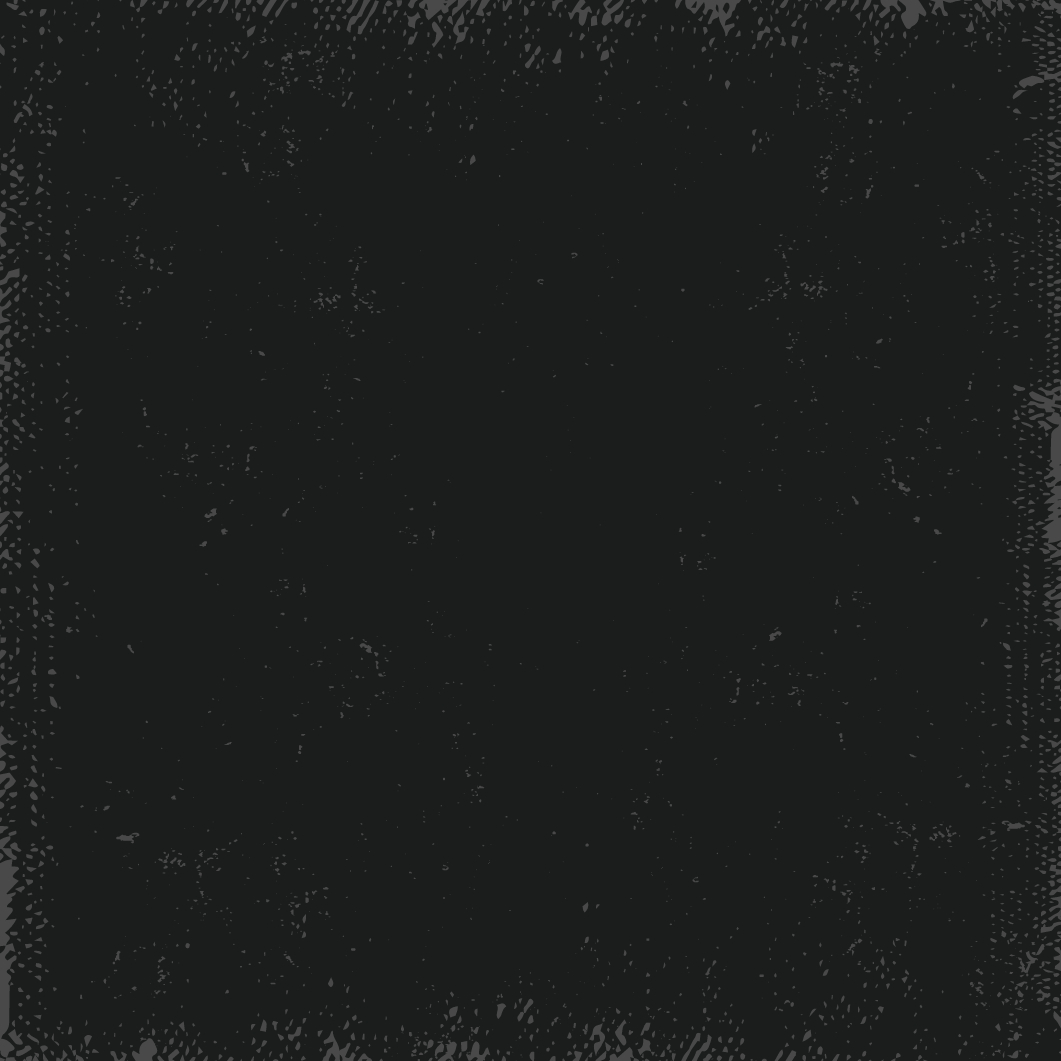
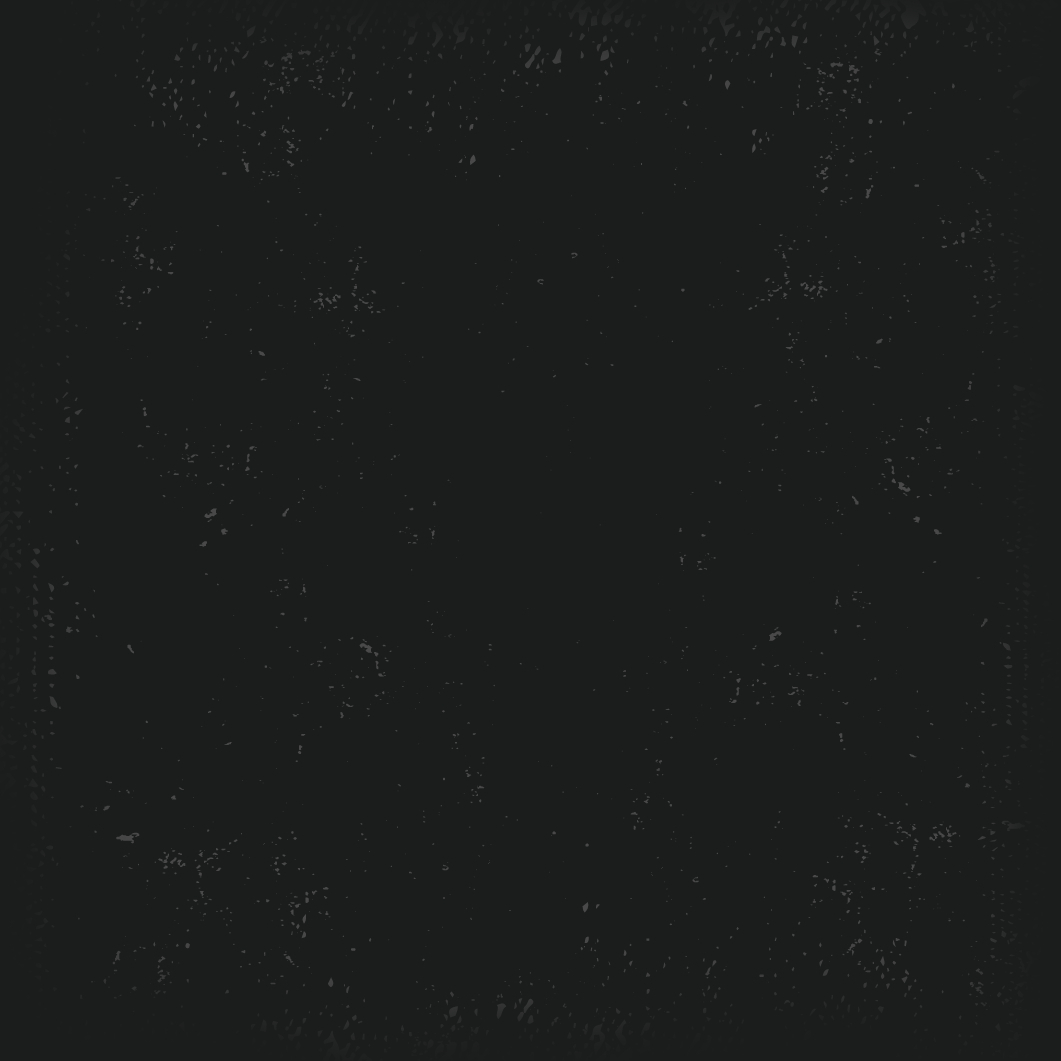
modified backgrounds

diff --git a/src/styles/index.css b/src/styles/index.css
@@ -17,7 +17,9 @@ svg {
 }
 
 body {
-  @apply text-gray-300 bg-back;
+  @apply text-gray-300;
+  background: url(../../assets/back.jpg);
+  background-attachment: fixed;
 }
 
 img {
@@ -40,7 +42,10 @@ a:hover {
 
 @layer components {
   .nav-btn {
-    @apply whitespace-nowrap flex gap-3 items-center bg-gray-800 bg-opacity-70 hover:text-white hover:bg-opacity-80 rounded-md px-6 py-3 text-base;
+    @apply whitespace-nowrap flex gap-3 items-center bg-back-darker hover:text-white bg-opacity-95 hover:bg-opacity-80 rounded-md px-6 py-3 text-base;
+  }
+  .nav-btn-burger {
+    @apply whitespace-nowrap flex gap-3 items-center bg-back hover:text-white bg-opacity-95 hover:bg-opacity-80 rounded-md px-6 py-3 text-base;
   }
   .hero-btn {
     @apply flex gap-3 items-center bg-gray-200 text-gray-800 hover:bg-gray-300 rounded-md px-4 py-2 text-lg;
@@ -49,10 +54,10 @@ a:hover {
     @apply absolute left-1/2 sm:left-[initial] sm:right-0 sm:transform-none transform -translate-x-1/2 md:hidden;
   }
   .vertical-nav-inner {
-    @apply bg-back-secondary bg-opacity-90 rounded-md;
+    @apply bg-back-darker bg-opacity-95 rounded-md;
   }
   .vertical-nav-inner:after {
-    @apply absolute z-20 left-1/2 transform -translate-x-1/2 -top-3 border-r-transparent border-t-transparent border-l-transparent border-back-secondary border-[6px] border-solid block w-0 h-0;
+    @apply absolute z-20 left-1/2 transform -translate-x-1/2 -top-4 border-r-transparent border-t-transparent border-l-transparent border-back-darker border-[8px] border-solid block w-0 h-0;
     content: " ";
   }
   .items {
@@ -71,7 +76,7 @@ a:hover {
     @apply text-2xl md:text-3xl font-black mb-4 text-primary;
   }
   .footer {
-    @apply bg-gray-900 bg-opacity-30 rounded-md p-10 text-center flex flex-col gap-4 items-center justify-center sm:flex-row sm:justify-between;
+    @apply bg-back-darker bg-opacity-30 rounded-md p-10 text-center flex flex-col gap-4 items-center justify-center sm:flex-row sm:justify-between;
   }
   .app-wrapper {
     @apply relative h-full flex flex-col;

diff --git a/src/components/Menu.tsx b/src/components/Menu.tsx
@@ -65,22 +65,28 @@ const Menu = ({
       }
     : {};
 
+  const btnCn = isBurgerMenu ? "nav-btn-burger" : "nav-btn";
+
   return (
-    <div ref={menuRef} className={`vertical-nav-inner ${!isBurgerMenu && 'bg-transparent'}`} style={{ ...menuStyles }}>
+    <div
+      ref={menuRef}
+      className={`vertical-nav-inner ${!isBurgerMenu && "bg-transparent"}`}
+      style={{ ...menuStyles }}
+    >
       <div className="flex gap-2 flex-col md:flex-row md:items-start">
-        <button onClick={() => handleScroll("about")} className="nav-btn">
+        <button onClick={() => handleScroll("about")} className={btnCn}>
           {t("nav.menu_1")}
         </button>
-        <button onClick={() => handleScroll("motopark")} className="nav-btn">
+        <button onClick={() => handleScroll("motopark")} className={btnCn}>
           {t("nav.menu_2")}
         </button>
-        <button onClick={() => handleScroll("terms")} className="nav-btn">
+        <button onClick={() => handleScroll("terms")} className={btnCn}>
           {(t("nav.menu_3") as string).split(" ")[0]}
         </button>
-        <button onClick={() => handleScroll("contact")} className="nav-btn">
+        <button onClick={() => handleScroll("contact")} className={btnCn}>
           {t("nav.menu_4")}
         </button>
-        <LanguageSwitcher />
+        <LanguageSwitcher btnCn={btnCn} />
       </div>
     </div>
   );

diff --git a/src/components/LanguageSwitcher.tsx b/src/components/LanguageSwitcher.tsx
@@ -13,26 +13,18 @@ const langs: { label: string; code: Lang }[] = [
   },
 ];
 
-const LanguageSwitcher = () => {
+const LanguageSwitcher = ({ btnCn }: { btnCn: string }) => {
   const { setLang, lang } = useStore();
 
   return (
-
-      <>
-        {langs.map(({ code, label }) => (
-          <button
-            key={code}
-            onClick={() => setLang(code)}
-            className={`nav-btn bg-opacity-100 ${
-              code === lang ? "opacity-100" : "opacity-70"
-            }`}
-          >
-            <img className="w-5" src={`/assets/${code}.svg`} />
-            {label}
-          </button>
-        ))}
-      </>
-
+    <>
+      {langs.map(({ code, label }) => (
+        <button key={code} onClick={() => setLang(code)} className={btnCn}>
+          <img className="w-5" src={`/assets/${code}.svg`} />
+          {label}
+        </button>
+      ))}
+    </>
   );
 };
 

diff --git a/src/components/Header.tsx b/src/components/Header.tsx
@@ -33,10 +33,13 @@ const Header = () => {
   return (
     <header
       ref={headerRef}
-      className={`${headerCn} top-0 w-full bg-back-secondary bg-opacity-90 z-50`}
+      className={`${headerCn} top-0 w-full shadow-lg z-50 border-b-2 border-back-darker`}
+      style={{
+        background: "url(../assets/back.jpg)",
+      }}
     >
       <div className="max-w-screen-xl px-8 mx-auto">
-        <div className="flex flex-col gap-4 flex-wrap items-center py-8 relative sm:flex-row sm:justify-between">
+        <div className="flex flex-col gap-6 flex-wrap items-center py-8 relative lg:flex-row lg:justify-between">
           <h2 className="text-3xl text-primary">
             <Link to="/">
               <img className="w-28" src="/assets/logo.png" alt="BlackMoto.GE" />

diff --git a/tailwind.config.js b/tailwind.config.js
@@ -4,10 +4,11 @@ export default {
   theme: {
     extend: {
       colors: {
-        back: "#222322",
-        "back-secondary": "#050605",
+        back: "#1b1d1c",
+        "back-darker": "#080908",
         primary: "#c24e4a",
         "primary-light": "#c24e4a",
+        "primary-darker": "#241110",
       },
     },
   },

diff --git a/src/components/AppWrapper.tsx b/src/components/AppWrapper.tsx
@@ -51,7 +51,7 @@ const AppWrapper = () => {
   return (
     <div className={`app-wrapper ${font}`}>
       <Header />
-      <img className="app-bg" alt="" src="/assets/back.jpg" />
+      {/* <img className="app-bg" alt="" src="/assets/back.jpg" /> */}
       <div className="mt-8 container">
         <Outlet />
       </div>
